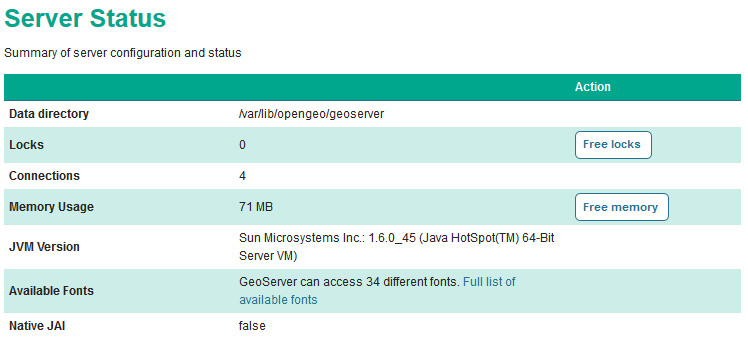
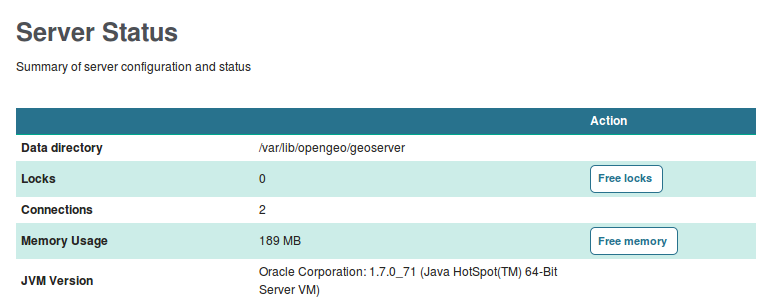
oracle java 7 install settings

diff --git a/docs/usermanual/source/sysadmin/jvm/setting.rst b/docs/usermanual/source/sysadmin/jvm/setting.rst
@@ -12,54 +12,51 @@ Determining the current Java version
 
 You may wish the verify the version of Java you have.
 
-Windows
-^^^^^^^
+Windows and OSX
+^^^^^^^^^^^^^^^
 
-OpenGeo Suite for Windows bundles the Oracle JRE in its package, so there is no need to do anything here.
+OpenGeo Suite installers bundle the Oracle Java 7 in its package, so there is no need to do anything here.
 
 All other systems
 ^^^^^^^^^^^^^^^^^
 
-For all other systems, run this command::
+Linux systems often have both Java 6 and Java 7 installed. OpenGeo Suite tomcat7 service is configured to start up with Java 7.
 
-  java -version
+To confirm the version of Java used:
 
-You should see something like this::
-
-  java version "1.6.0_32"
-  Java(TM) SE Runtime Environment (build 1.6.0_32-b05)
-  Java HotSpot(TM) 64-Bit Server VM (build 20.7-b02, mixed mode)
-
-The above example is running the Oracle JVM version 6 (1.6). If your output says "IBM", "OpenJDK", or anything like that, it is not running the Oracle JVM.
-
-If you receive an error that Java is not on the path, you may wish to look at the ``JAVA_HOME`` environment variable.
-
-.. note:: On OS X, you can use the ``/usr/libexec/java_home`` tool to determine the current path to Java. See the `Mac Developer Library <https://developer.apple.com/library/mac/qa/qa1170/_index.html>`_ for more information.
+#. Log in to the GeoServer Admin interface
+#. Navigate to the Navigate to the Server Status Page page
+#. Confirm the **JVM Version** is Java 7 or higher.
+     
+   .. figure:: img/jvm-version.png
+      
+      JVM Version
 
 Changing to the Oracle JRE
 --------------------------
 
-Windows
-^^^^^^^
+Linux  
+^^^^^
 
-As mentioned above, OpenGeo Suite for Windows automatically includes the appropriate JRE. No action is needed.
+#. First, download the Oracle JRE. In your browser, navigate to http://www.oracle.com/technetwork/java/javase/downloads/jre7-downloads-1880261.html . This is Oracle's download page for JRE 7.
 
-If running OpenGeo Suite for Application Servers on a Windows system, see below.
+#. Click the radio box to accept the license agreement and then click the download link that matches your system.::
 
-All other systems
-^^^^^^^^^^^^^^^^^
+     jre-7u71-linux-x64.tar.gz
 
-#. First, download the Oracle JRE. In your browser, navigate to http://www.oracle.com/technetwork/java/javase/downloads/jre6downloads-1902815.html. This is Oracle's download page for JRE 6.
+#. Extract the download file contents to your temporary directory or your desktop.
 
-#. Click the radio box to accept the license agreement and then click the download link that matches your system. Save it to your temporary directory or your desktop.
+#. In a terminal, change to that directory and confirm the directory contents:
 
-#. In a terminal, change to that directory and run the file. For example:
+   .. code-block:: bash
+     
+      $ ls jre1.7.0_71
+      bin        man      THIRDPARTYLICENSEREADME-JAVAFX.txt
+      COPYRIGHT  plugin   THIRDPARTYLICENSEREADME.txt
+      lib        README   Welcome.html
+      LICENSE    release
 
-   .. code-block:: console
-
-      ./jre-6u45-linux-x64.bin
-
-#. A :file:`jre1.6.0_45` directory will be created. Move this directory to :file:`/usr/lib/jvm` (or wherever you'd like to place your JRE):
+#. Move this directory to :file:`/usr/lib/jvm` (or wherever you'd like to place your JRE):
 
    .. code-block:: console
 
@@ -69,24 +66,64 @@ All other systems
 
    .. code-block:: console
 
-      export $JAVA_HOME=/usr/lib/jvm/jre1.6.0_45
+      export $JAVA_HOME=/usr/lib/jvm/jre1.7.0_71
+      
+#. Make sure that your application server (Jetty, Tomcat, etc.) is using this new Java. (It may be reading the ``JAVA_HOME`` environment variable, but not necessarily.) 
 
-#. Make sure that your application server (Jetty, Tomcat, etc.) is using this new Java. (It may be reading the ``JAVA_HOME`` environment variable, but not necessarily.) If using Tomcat, open :file:`/etc/default/tomcat6` in a text editor (or equivalent for your system):
+#. If using OpenGeo Suite packages (or using Tomcat) open :file:`/etc/default/tomcat7` in a text editor (or equivalent for your system). Scroll down to the end of the file where the ``JAVA_HOME`` variable is set. Add the line:
 
-#. Scroll down to the setting of the ``JAVA_HOME`` variable. Add the line:
+   .. code-block:: bash
+      :emphasize-lines: 3
 
-   .. code-block:: console
+      OPENGEO_OPTS="-Djava.awt.headless=true -Xms256m -Xmx768m -Xrs -XX:PerfDataSamplingInterval=500 -XX:MaxPermSize=256m -Dorg.geotools.referencing.forceXY=true -DGEOEXPLORER_DATA=/var/lib/opengeo/geoexplorer"
+      JAVA_OPTS="$JAVA_OPTS $OPENGEO_OPTS"
+      JAVA_HOME=/usr/lib/jvm/jre1.7.0_71
 
-      JAVA_HOME=/usr/lib/jvm/jre1.6.0_45
+   Save and close the file. Restart Tomcat. 
 
-#. Save and close the file. Restart Tomcat. 
-
-#. If you didn't change the default JVM for your system, you'll need to ensure that the application server is using the correct Java. You can verify this in GeoServer by navigating to the Server Status page.
+#. OpenGeo Suite should now be using the new version of Java. Verify in GeoServer by navigating to the Server Status page.
 
    .. figure:: img/serverstatus.png
 
-      Server Status showing Oracle JRE
+      Server Status showing Oracle JRE 
 
-#. On the line named :guilabel:`JVM Version`, you should see the Oracle JRE. (For historical reasons, it will be shown as "Sun Microsystems.")
+#. On the line named :guilabel:`JVM Version`, you should see the Oracle JRE. (For historical reasons, it will be shown as "Java HotSpot.")
+
+.. note:: Read more about :ref:`running OpenGeo Suite in Production <sysadmin.production>`.
+
+Windows Application Servers
+^^^^^^^^^^^^^^^^^^^^^^^^^^^
+
+.. note:: As mentioned above, OpenGeo Suite for Windows automatically includes the appropriate JRE. No action is needed.
+
+If running OpenGeo Suite for Application Servers on a Windows system:
+
+#. First, download the Oracle JRE. In your browser, navigate to http://www.oracle.com/technetwork/java/javase/downloads/jre7-downloads-1880261.html . This is Oracle's download page for JRE 7.
+
+#. Click the radio box to accept the license agreement and then click the download link that matches your system.::
+
+     jre-7u71-windows-x64.exe
+
+#. Use the installer (or manual directions) to update Java.
+   
+   .. warning:: When installing a new Java Runtime Environment from Oracle pay careful attention to the  installation wizard. Oracle has a habit of including unwanted extras such as a toolbar for **Ask.com**.
+
+#. *(Optional)* Change your ``JAVA_HOME`` environment variable to point to this new directory. From the **System** control panel select **Advanced System Settings**. From the **System Properties** dialog navigate to the **Advanced Tab** and click **Environment Variables**. Define a System Variable by clicking **New** and filling in:
+   
+   ========== ===================================================
+   Variable   Value 
+   ========== ===================================================
+   JAVA_HOME  C:\\Program Files\\Java\\jre7
+   ========== ===================================================
+
+#. Make sure that your application server (Jetty, Tomcat, etc.) is using this new Java. It may be reading the ``JAVA_HOME`` environment variable, or you may need to consult your application server documentation.
+
+#. OpenGeo Suite should now be using the new version of Java. Verify in GeoServer by navigating to the Server Status page.
+
+   .. figure:: img/jvm-version-windows.png
+      
+      Server Status showing Oracle JRE 
+
+#. On the line named :guilabel:`JVM Version`, you should see the Oracle JRE. (For historical reasons, it will be shown as "Java HotSpot.")
 
 .. note:: Read more about :ref:`running OpenGeo Suite in Production <sysadmin.production>`.
